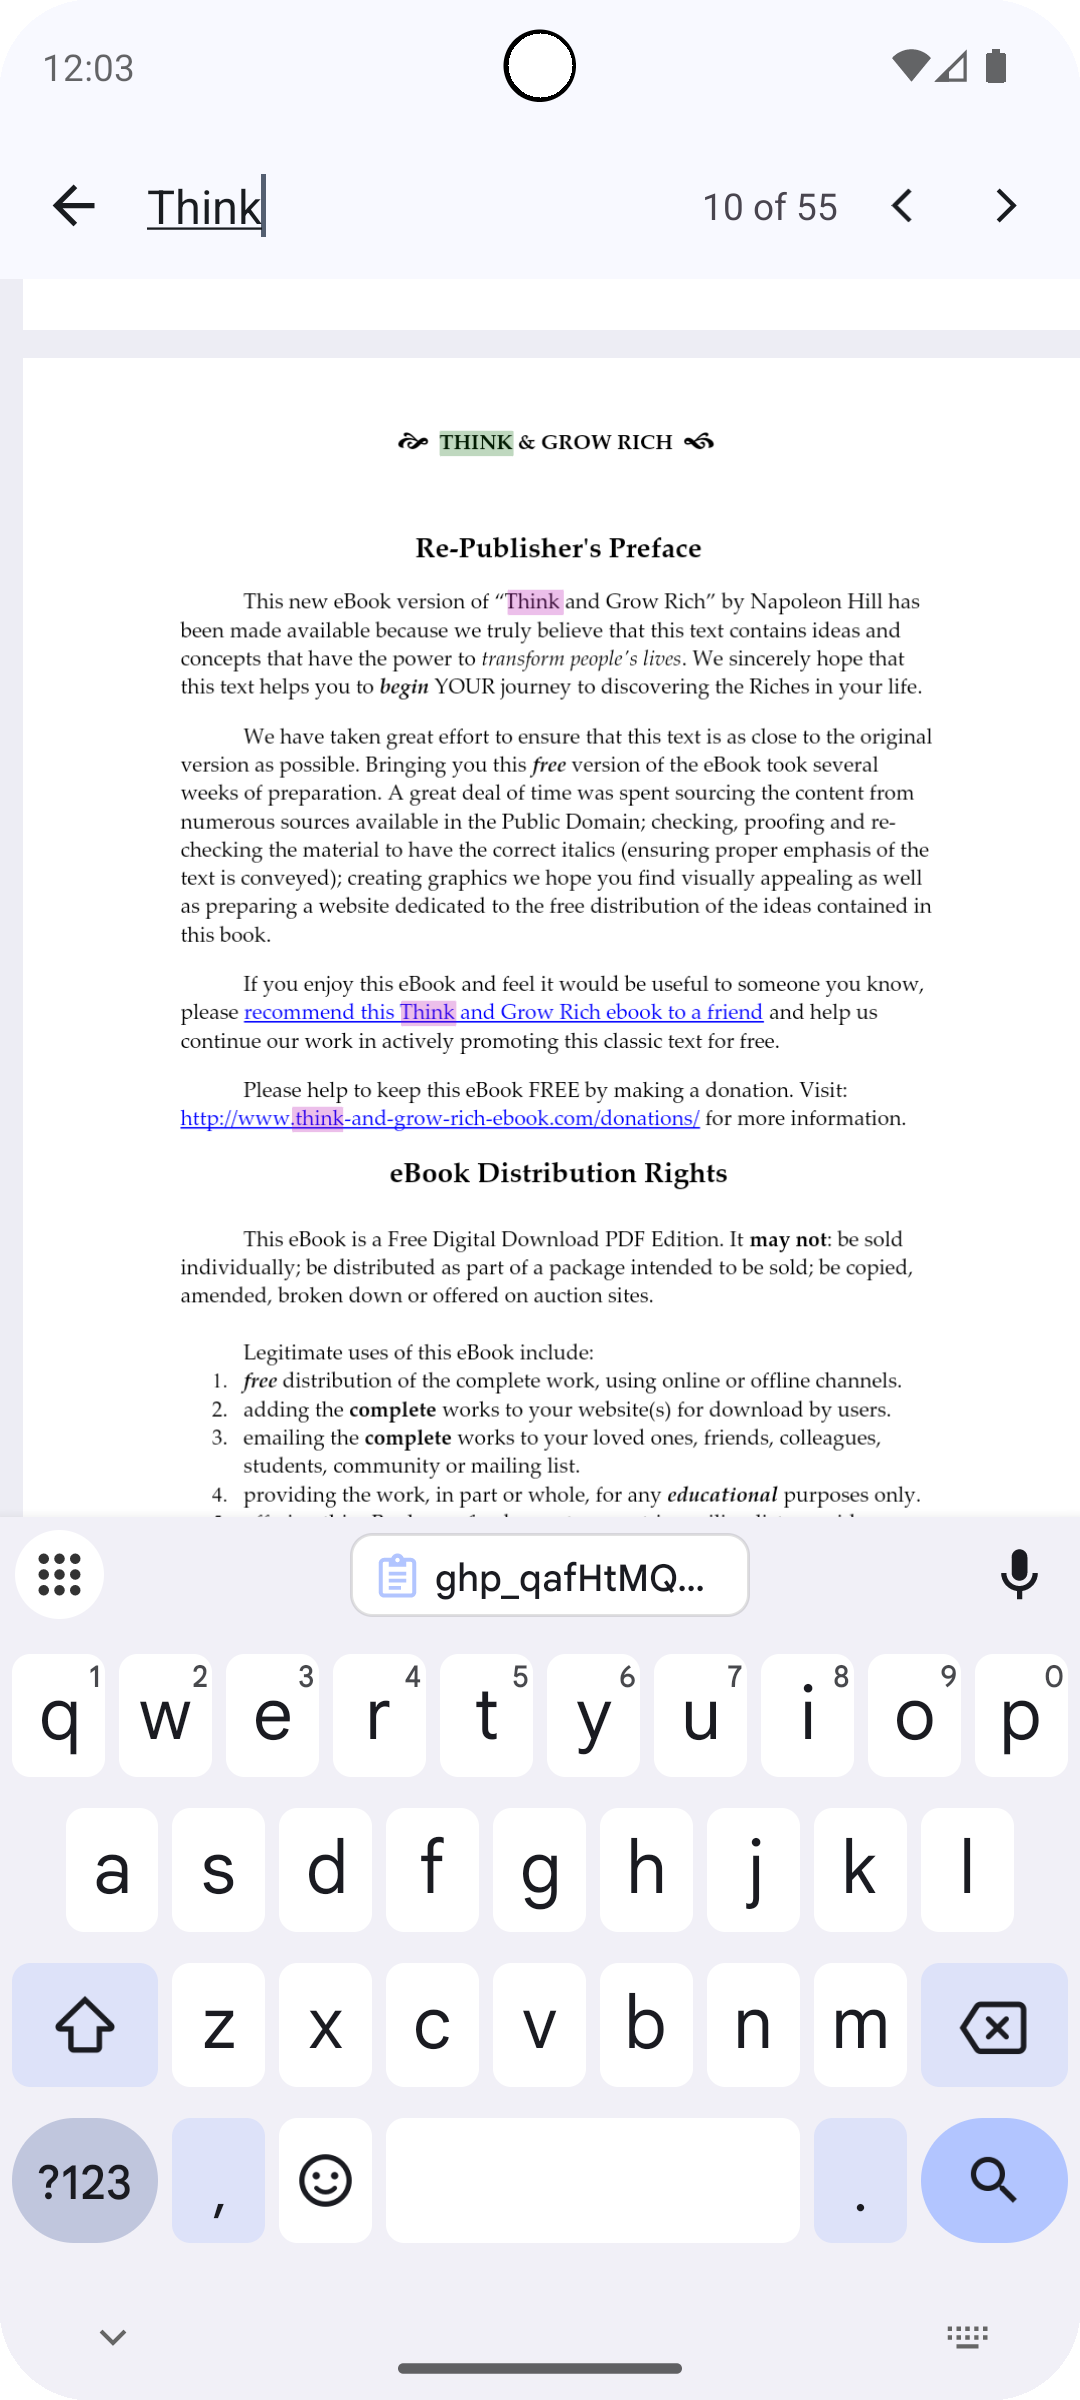
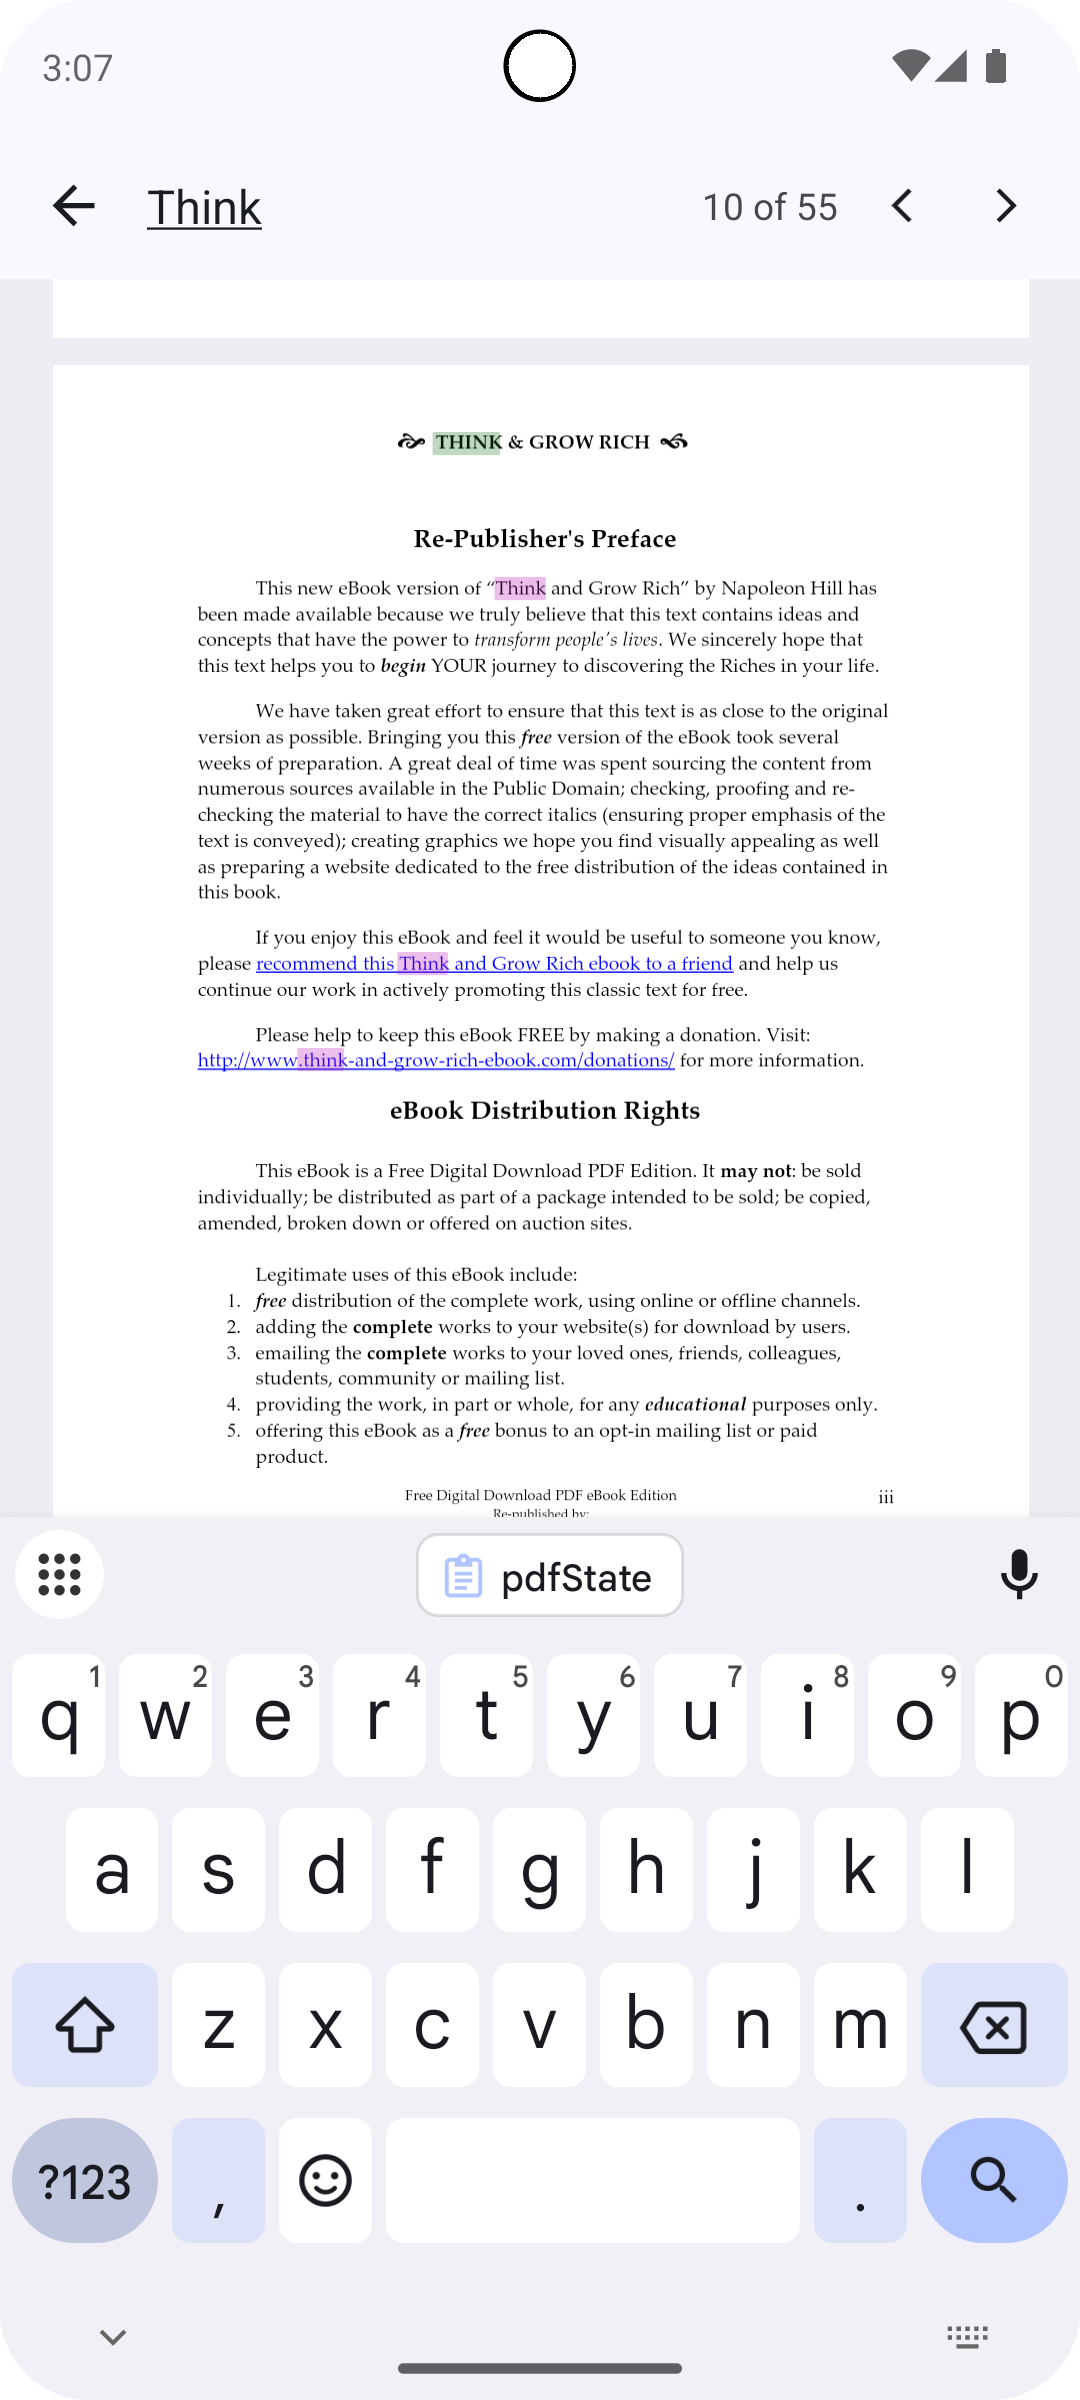
Fix find not cleared on closing find bar and fix ids

Changed region(s): [[0.1528, 0.2188, 0.8556, 0.6875], [0.3667, 0.1562, 0.6417, 0.1875], [0.0611, 0.0, 0.1222, 0.0312]]

diff --git a/ui/src/main/java/com/acutecoder/pdf/ui/PdfToolBar.kt b/ui/src/main/java/com/acutecoder/pdf/ui/PdfToolBar.kt
@@ -46,12 +46,12 @@ open class PdfToolBar @JvmOverloads constructor(
     val title: TextView = root.findViewById(R.id.title)
     val find: ImageView = root.findViewById(R.id.find)
     val more: ImageView = root.findViewById(R.id.more)
-    val findBar: LinearLayout = root.findViewById(R.id.findBar)
-    val findEditText: EditText = root.findViewById(R.id.findEditText)
-    val findProgressBar: ProgressBar = root.findViewById(R.id.findProgressBar)
-    val findInfo: TextView = root.findViewById(R.id.findInfo)
-    val findPrevious: ImageView = root.findViewById(R.id.findPrevious)
-    val findNext: ImageView = root.findViewById(R.id.findNext)
+    val findBar: LinearLayout = root.findViewById(R.id.find_bar)
+    val findEditText: EditText = root.findViewById(R.id.find_edit_text)
+    val findProgressBar: ProgressBar = root.findViewById(R.id.find_progress_bar)
+    val findInfo: TextView = root.findViewById(R.id.find_info)
+    val findPrevious: ImageView = root.findViewById(R.id.find_previous)
+    val findNext: ImageView = root.findViewById(R.id.find_next)
 
     init {
         initListeners()
@@ -136,7 +136,10 @@ open class PdfToolBar @JvmOverloads constructor(
         findInfo.text = ""
 
         if (visible) findEditText.requestKeyboard()
-        else findEditText.hideKeyboard()
+        else {
+            pdfViewer.findController.stopFind()
+            findEditText.hideKeyboard()
+        }
     }
 
     fun setContentColor(@ColorInt contentColor: Int) {
@@ -168,8 +171,10 @@ open class PdfToolBar @JvmOverloads constructor(
         findEditText.setOnEditorActionListener { textView, actionId, _ ->
             if (actionId == EditorInfo.IME_ACTION_SEARCH) {
                 val query = textView.text.toString()
-                pdfViewer.findController.startFind(query)
-                findEditText.hideKeyboard()
+                if (query.isNotEmpty()) {
+                    pdfViewer.findController.startFind(query)
+                    findEditText.hideKeyboard()
+                }
                 true
             } else false
         }
@@ -258,7 +263,7 @@ open class PdfToolBar @JvmOverloads constructor(
     private fun showGoToPageDialog() {
         @SuppressLint("InflateParams")
         val root = layoutInflater.inflate(R.layout.pdf_go_to_page_dialog, null)
-        val field: EditText = root.findViewById(R.id.goToPageField)
+        val field: EditText = root.findViewById(R.id.go_to_page_field)
 
         val gotTo: (String, DialogInterface) -> Unit = { pageNumber, dialog ->
             pdfViewer.goToPage(pageNumber.toIntOrNull() ?: pdfViewer.currentPage)
@@ -420,19 +425,19 @@ open class PdfToolBar @JvmOverloads constructor(
         @SuppressLint("InflateParams")
         val root = layoutInflater.inflate(R.layout.pdf_properties_dialog, null)
 
-        root.find(R.id.fileName).text = this@PdfToolBar.fileName?.ifBlank { "-" } ?: "-"
-        root.find(R.id.fileSize).text = properties.fileSize.formatToSize()
+        root.find(R.id.file_name).text = this@PdfToolBar.fileName?.ifBlank { "-" } ?: "-"
+        root.find(R.id.file_size).text = properties.fileSize.formatToSize()
         root.find(R.id.title).text = properties.title
         root.find(R.id.subject).text = properties.subject
         root.find(R.id.author).text = properties.author
         root.find(R.id.creator).text = properties.creator
         root.find(R.id.producer).text = properties.producer
-        root.find(R.id.creationDate).text = properties.creationDate.formatToDate()
-        root.find(R.id.modifiedDate).text = properties.modifiedDate.formatToDate()
+        root.find(R.id.creation_date).text = properties.creationDate.formatToDate()
+        root.find(R.id.modified_date).text = properties.modifiedDate.formatToDate()
         root.find(R.id.keywords).text = properties.keywords
         root.find(R.id.language).text = properties.language
-        root.find(R.id.pdfFormatVersion).text = properties.pdfFormatVersion
-        root.find(R.id.isLinearized).text = properties.isLinearized.toString()
+        root.find(R.id.pdf_format_version).text = properties.pdfFormatVersion
+        root.find(R.id.is_linearized).text = properties.isLinearized.toString()
 
         return setView(root)
     }

diff --git a/ui/src/main/java/com/acutecoder/pdf/ui/PdfContainer.kt b/ui/src/main/java/com/acutecoder/pdf/ui/PdfContainer.kt
@@ -112,7 +112,7 @@ class PdfContainer : RelativeLayout {
                     @SuppressLint("InflateParams")
                     val root =
                         LayoutInflater.from(context).inflate(R.layout.pdf_go_to_page_dialog, null)
-                    val field: EditText = root.findViewById<EditText?>(R.id.goToPageField).apply {
+                    val field: EditText = root.findViewById<EditText?>(R.id.go_to_page_field).apply {
                         inputType =
                             InputType.TYPE_CLASS_TEXT or InputType.TYPE_TEXT_VARIATION_PASSWORD
                         imeOptions = EditorInfo.IME_ACTION_DONE

diff --git a/ui/src/main/java/com/acutecoder/pdf/ui/PdfScrollBar.kt b/ui/src/main/java/com/acutecoder/pdf/ui/PdfScrollBar.kt
@@ -34,7 +34,7 @@ class PdfScrollBar @JvmOverloads constructor(
     var animationDuration = 250L
     var interactiveScrolling = true
 
-    val pageNumberInfo: TextView = root.findViewById(R.id.pageNumberInfo)
+    val pageNumberInfo: TextView = root.findViewById(R.id.page_number_info)
     val dragHandle: ImageView = root.findViewById(R.id.drag_handle)
 
     init {
